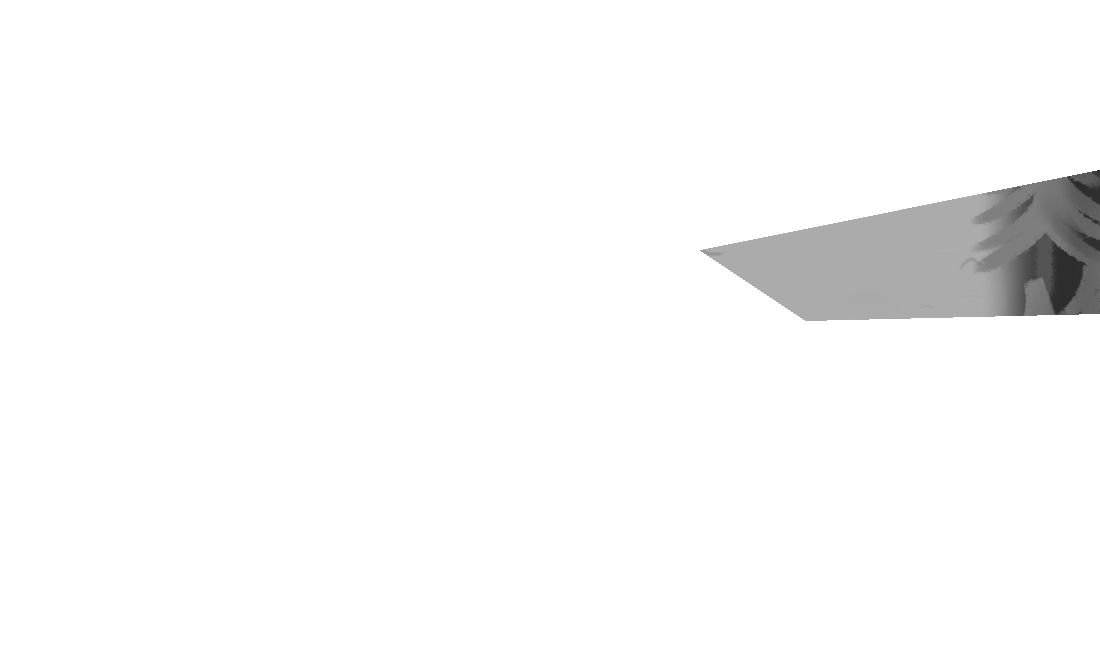
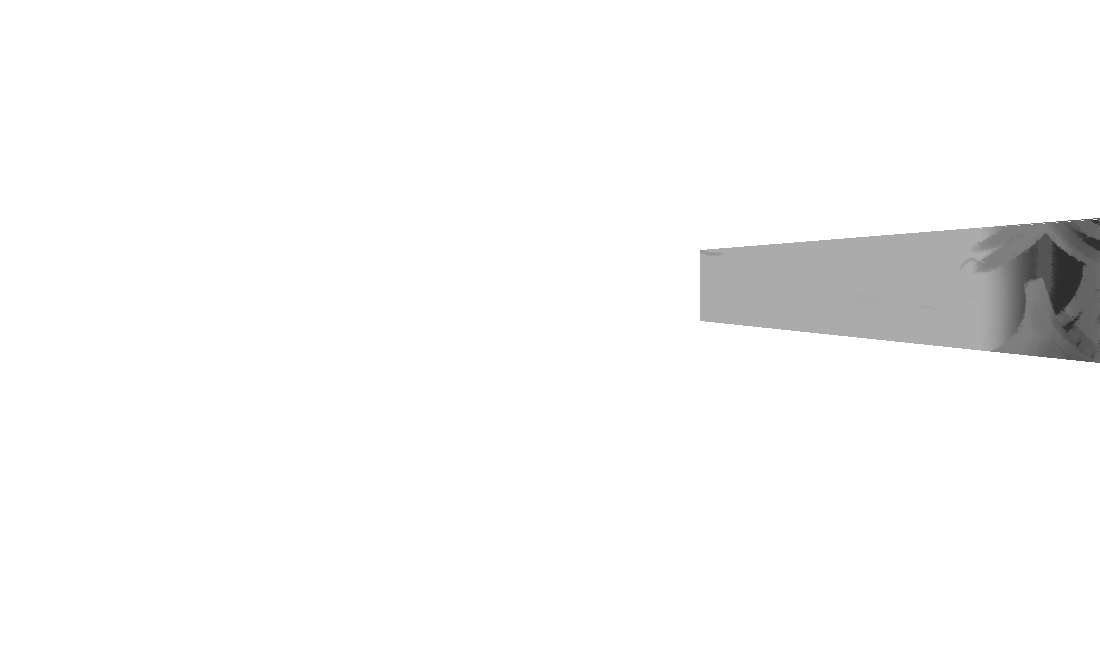
working on snowman pathfinding

Changed region(s): [[0.6182, 0.2462, 1.0, 0.5846]]

diff --git a/Snowman.py b/Snowman.py
@@ -4,9 +4,6 @@ import math
 import Helper
 import Projectiles
 import time
-from pathfinding.core.diagonal_movement import DiagonalMovement
-from pathfinding.core.grid import Grid
-from pathfinding.finder.a_star import AStarFinder
 
 # update
 FIRSTSNOWMAN_SPAWN_RATE = 0.01
@@ -15,12 +12,6 @@ THIRDSNOWMAN_SPAWN_RATE = 0.005
 BORDER = (0, 0, 1100, 650)
 SAFE_DISTANCE = 30
 TOTAL_SNOWMAN = 5
-
-MATRIX = [[0 for m in range(BORDER[3])] for n in range(BORDER[2])]
-
-
-def pathfind():
-    pass
 
 
 class Snowman:
@@ -45,12 +36,33 @@ class Snowman:
         # aidan walking cycle
         pygame.draw.rect(win, (255, 255, 255), (self.x - self.WIDTH // 2, self.y - self.HEIGHT // 2, self.WIDTH, self.HEIGHT))
 
-    def move(self, campfire):
+    def move(self, campfire, boulders):
+        x = [self.x][:][0]
+        y = [self.y][:][0]
+
         if not self.reached_goal:
-            self.x = self.x + math.sin(self.angle) * self.speed
-            self.y = self.y + math.cos(self.angle) * self.speed
+            x = self.x + math.sin(self.angle) * self.speed
+            y = self.y + math.cos(self.angle) * self.speed
             if Helper.get_distance(self.x, self.y, self.goal.x, self.goal.y) <= self.throwing_range:
                 self.reached_goal = True
+
+        move_x = True
+        move_y = True
+
+        rect = pygame.Rect(x, y, self.WIDTH, self.HEIGHT)
+        for boulder in boulders:
+            boulder_rect = pygame.Rect((boulder.x - 4, boulder.y - 4, boulder.width + 12, boulder.height + 12))
+            if boulder_rect.colliderect(rect):
+                if rect.bottom <= boulder_rect.top or rect.top >= boulder_rect.bottom:
+                    move_y = False
+                if rect.left >= boulder_rect.right or rect.right <= boulder_rect.left:
+                    move_x = False
+
+        if move_x:
+            self.x = x
+        if move_y:
+            self.y = y
+
 
     def shoot(self):
         if self.reached_goal:
@@ -64,18 +76,40 @@ class Snowman:
     def is_dead(self):
         return self.health <= 0
 
+
 class first_snowman(Snowman):
 
     def shoot(self):
         if self.reached_goal:
             return True
 
-    def move(self, campfire):
+    def move(self, campfire, boulders):
+        x = [self.x][:][0]
+        y = [self.y][:][0]
+
         if not self.reached_goal:
-            self.x = self.x + math.sin(self.angle) * self.speed
-            self.y = self.y + math.cos(self.angle) * self.speed
+            x = self.x + math.sin(self.angle) * self.speed
+            y = self.y + math.cos(self.angle) * self.speed
             if Helper.get_distance(self.x, self.y, campfire.x, campfire.y) <= campfire.FIRE_DISTANCE:
                 self.reached_goal = True
+
+        move_x = True
+        move_y = True
+
+        rect = pygame.Rect(x, y, self.WIDTH, self.HEIGHT)
+        for boulder in boulders:
+            boulder_rect = pygame.Rect((boulder.x - 4, boulder.y - 4, boulder.width + 12, boulder.height + 12))
+            if boulder_rect.colliderect(rect):
+                print("test")
+                if rect.bottom <= boulder_rect.top or rect.top >= boulder_rect.bottom:
+                    move_y = False
+                if rect.left >= boulder_rect.right or rect.right <= boulder_rect.left:
+                    move_x = False
+
+        if move_x:
+            self.x = x
+        if move_y:
+            self.y = y
 
     def draw(self, win, firstsnowman):
         if 150 <= self.x <= 900 and (self.y < 250 or self.y > 400):
@@ -110,11 +144,11 @@ class third_snowman(Snowman):
 
 
 def get_snowman_location(width, height, border):
-    x = random.randint(0, width)
-    y = random.randint(0, height)
+    x = random.randint(0, width - 1)
+    y = random.randint(0, height - 1)
     while border[1] < y < border[3] and border[0] < x < border[2]:
-        y = random.randint(0, height)
-        x = random.randint(0, width)
+        y = random.randint(0, height - 1)
+        x = random.randint(0, width - 1)
 
     return x, y
 

diff --git a/Main.py b/Main.py
@@ -194,13 +194,13 @@ def main():
             if firstsnowman.shoot():
                 campfire.health -= firstsnowman.damage
                 first_snowmen.remove(firstsnowman)
-            firstsnowman.move(campfire)
+            firstsnowman.move(campfire, boulders)
 
         for secondsnowman in second_snowmen:
             snowball = secondsnowman.shoot()
             if snowball is not None:
                 small_snowballs.append(snowball)
-            secondsnowman.move(campfire)
+            secondsnowman.move(campfire, boulders)
 
         campfire.spawn_wood()
 

diff --git a/Boulder.py b/Boulder.py
@@ -94,7 +94,7 @@ class Boulder:
 
     def draw(self, win, player, image):
         self.shadow(win, player)
-        self.draw_shadow(win)
+        # self.draw_shadow(win)
         win.blit(image, (self.x - 10, self.y - 45))
 
     def draw_shadow(self, win):
